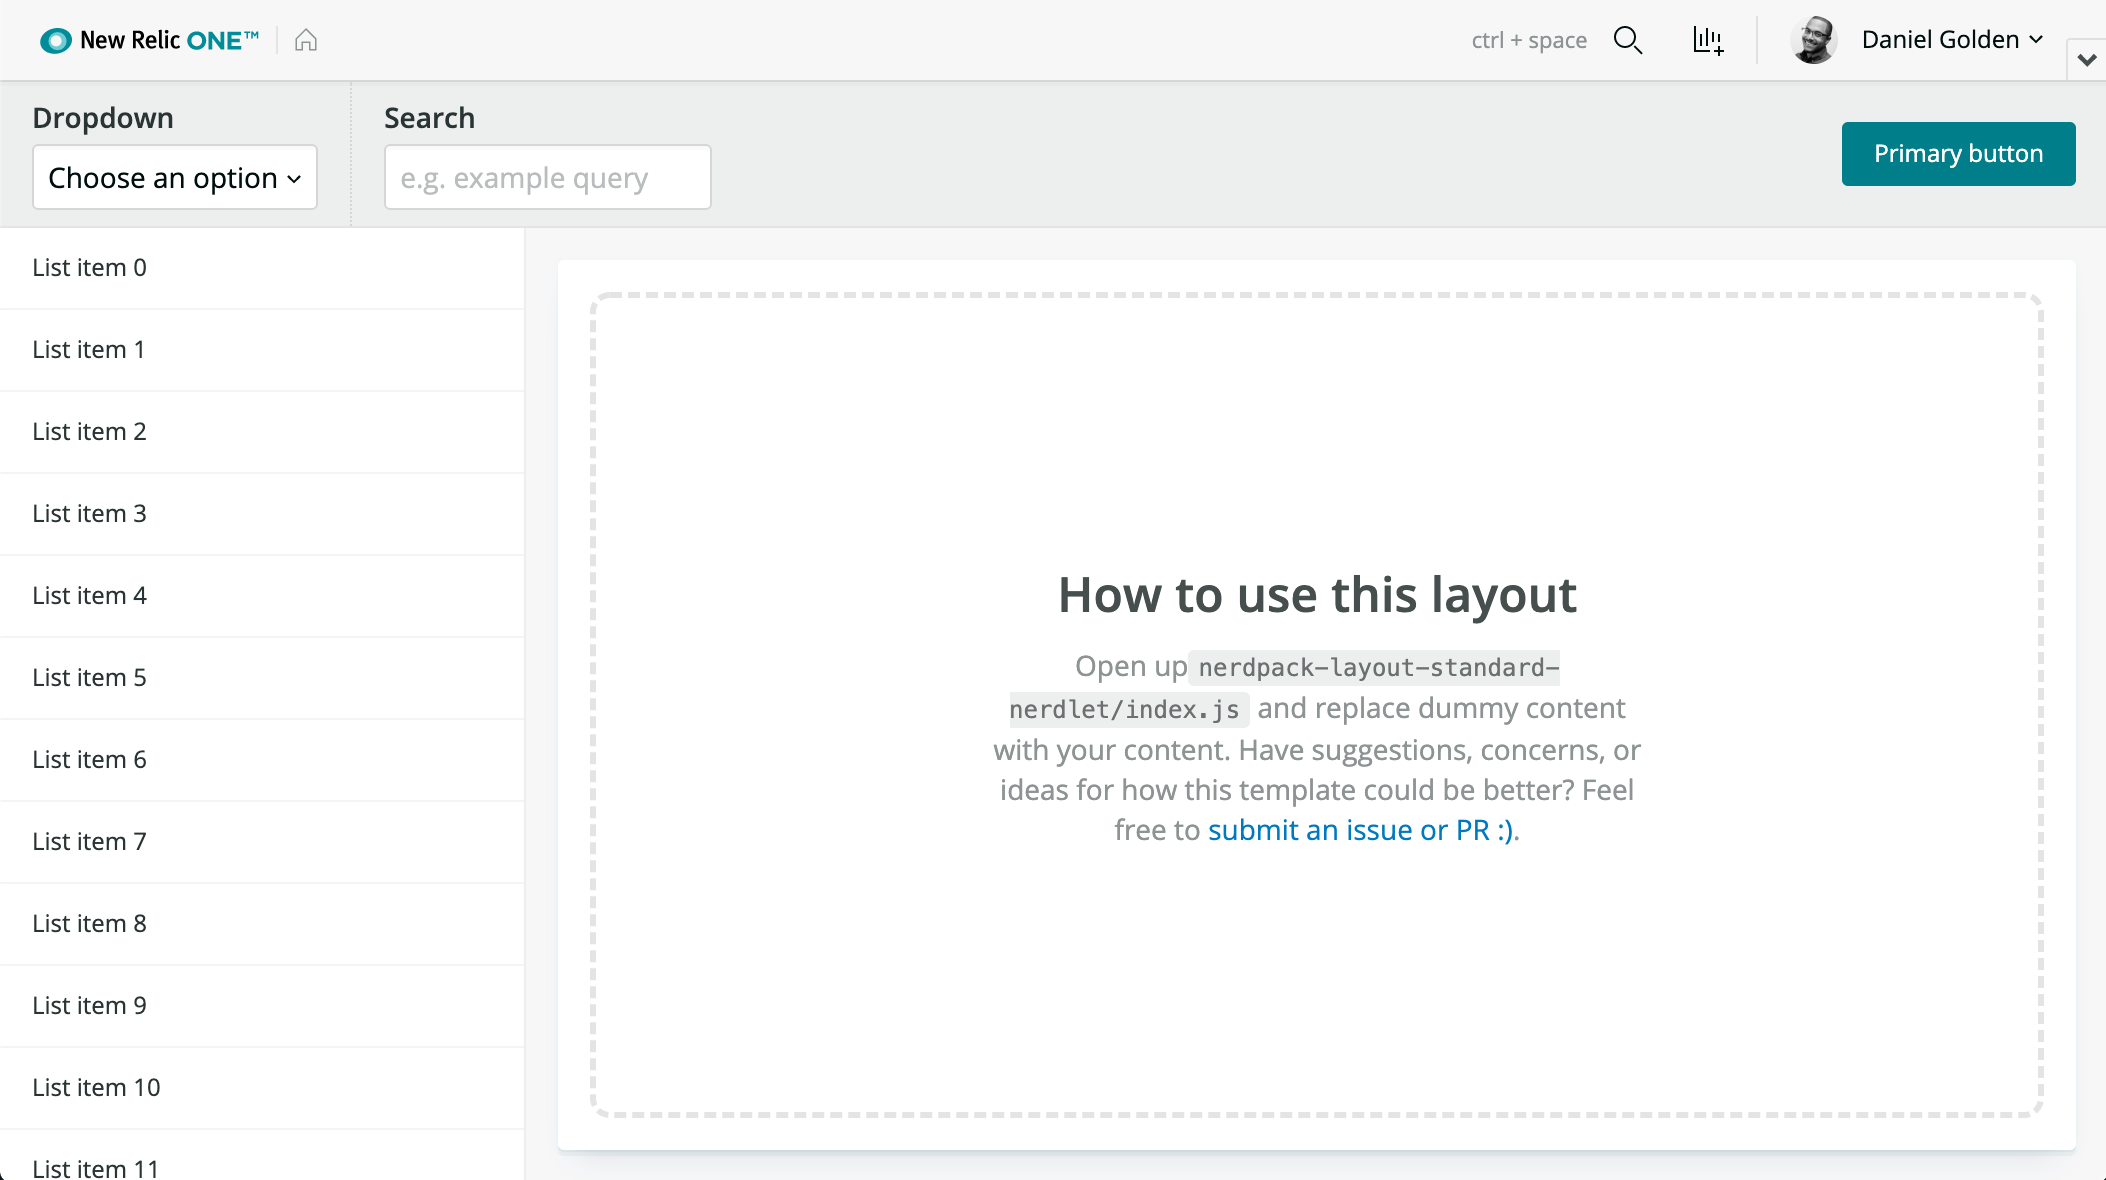
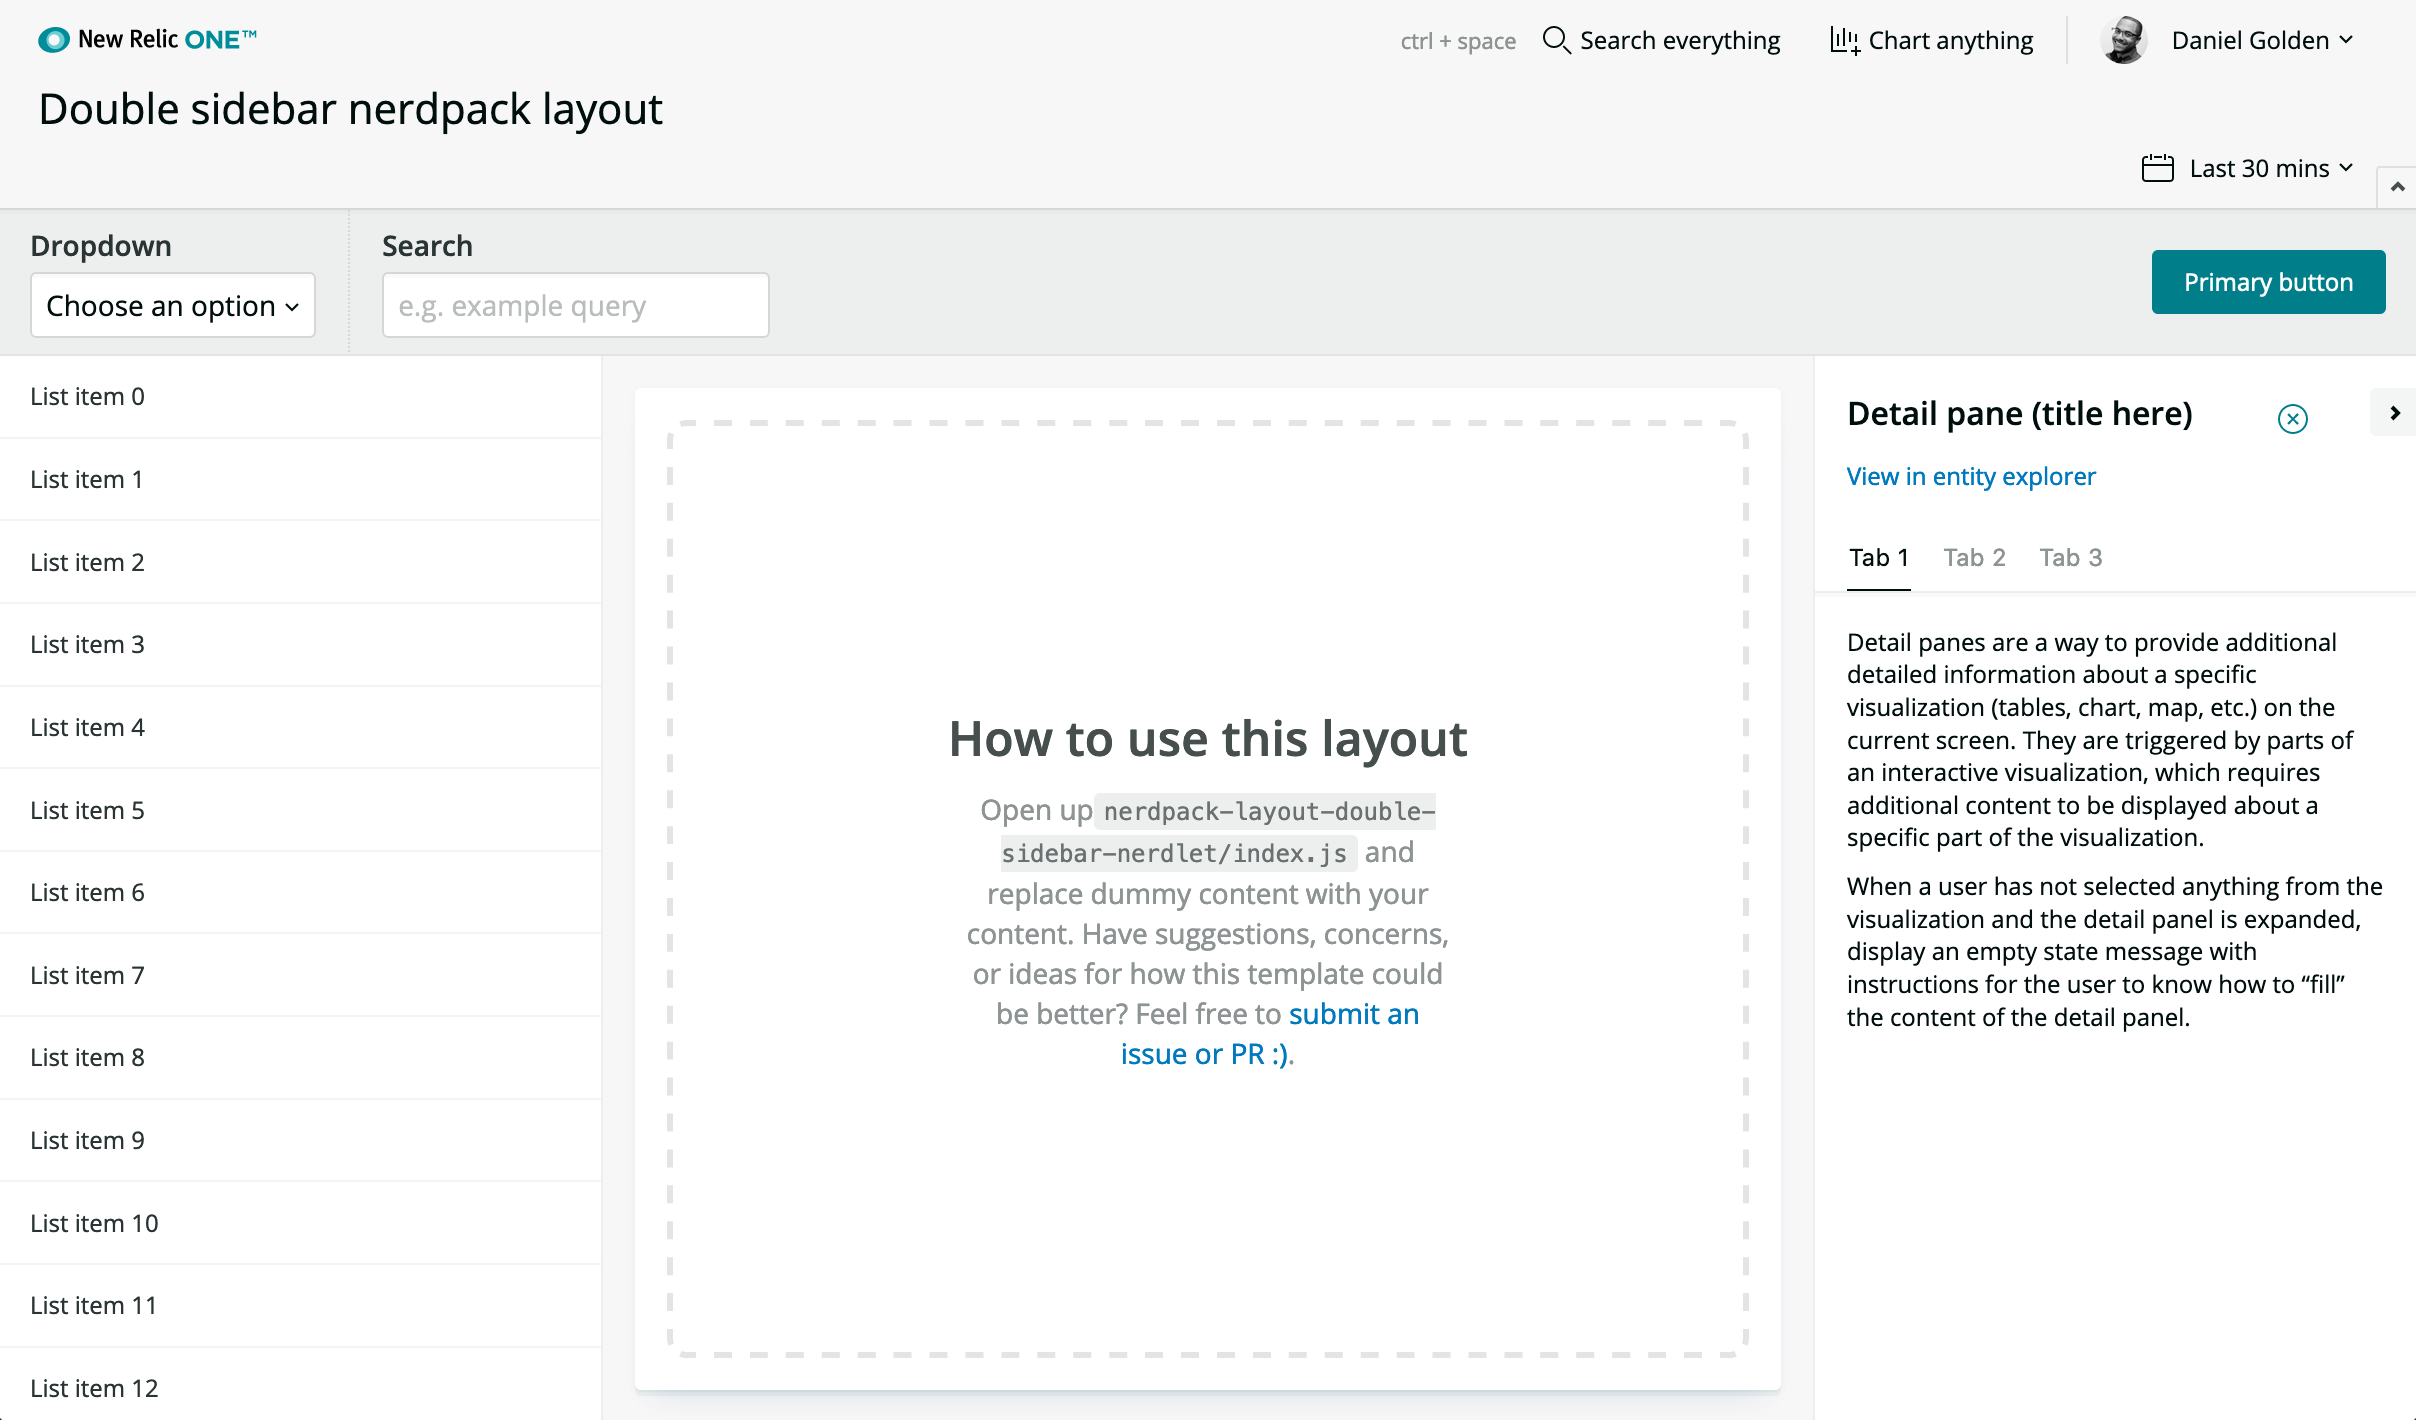
docs: update screenshot and metions of standard

diff --git a/README.md b/README.md
@@ -1,13 +1,14 @@
-# Standard layout design nerdpack
+# Double sidebar layout design nerdpack
 
 This nerdpack serves as a boilerplate to developers building on the New Relic One platform. In order to use this layout for your next project, following the "Getting started" instructions below and then replace the dummy content in `nerdlet/index.js` with your content.
 
 #### What's included?
 - JSX to implement this layout
 - CSS to improve the styling and provide some basic UX help
+- a `<DetailPane />` component which is used for the right sidebar
 - Utility classes for things like making an element full width or full height.
 
-![GitHub release (latest SemVer including pre-releases)](https://img.shields.io/github/v/release/newrelic/nr1-nerdpack-layout-standard?include_prereleases&sort=semver) [![Snyk](https://snyk.io/test/github/newrelic/nr1-nerdpack-layout-standard/badge.svg)](https://snyk.io/test/github/newrelic/nr1-nerdpack-layout-standard)
+![GitHub release (latest SemVer including pre-releases)](https://img.shields.io/github/v/release/newrelic/nr1-nerdpack-layout-double-sidebar?include_prereleases&sort=semver) [![Snyk](https://snyk.io/test/github/newrelic/nr1-nerdpack-layout-double-sidebar/badge.svg)](https://snyk.io/test/github/newrelic/nr1-nerdpack-layout-double-sidebar)
 
 ## Usage
 
@@ -32,8 +33,8 @@ npm -v
 3. Next, to clone this repository and run the code locally against your New Relic data, execute the following command:
 
 ```bash
-nr1 nerdpack:clone -r https://github.com/newrelic/nr1-nerdpack-layout-standard.git
-cd nr1-nerdpack-layout-standard
+nr1 nerdpack:clone -r https://github.com/newrelic/nr1-nerdpack-layout-double-sidebar.git
+cd nr1-nerdpack-layout-double-sidebar
 nr1 nerdpack:serve
 ```
 
@@ -64,7 +65,7 @@ We encourage you to bring your experiences and questions to the [Explorers Hub](
 
 New Relic hosts and moderates an online forum where customers can interact with New Relic employees as well as other customers to get help and share best practices. Like all official New Relic open source projects, there's a related Community topic in the New Relic Explorers Hub. You can find this project's topic/threads here:
 
-https://discuss.newrelic.com/t/standard-layouts/88605
+https://discuss.newrelic.com/t/double-sidebar-layouts/88605
 
 ### Issues / Enhancement Requests
 
@@ -74,4 +75,4 @@ Issues and enhancement requests can be submitted in the [Issues tab of this repo
 
 Contributions are welcome (and if you submit a Enhancement Request, expect to be invited to contribute it yourself :grin:). Please review our [Contributors Guide](CONTRIBUTING.md).
 
-Keep in mind that when you submit your pull request, you'll need to sign the CLA via the click-through using CLA-Assistant. If you'd like to execute our corporate CLA, or if you have any questions, please drop us an email at opensource+nerdpack-layout-standard@newrelic.com
+Keep in mind that when you submit your pull request, you'll need to sign the CLA via the click-through using CLA-Assistant. If you'd like to execute our corporate CLA, or if you have any questions, please drop us an email at opensource+nerdpack-layout-double-sidebar@newrelic.com
